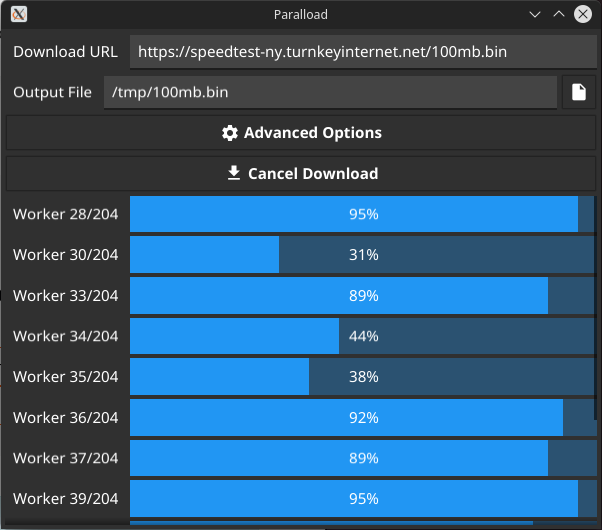
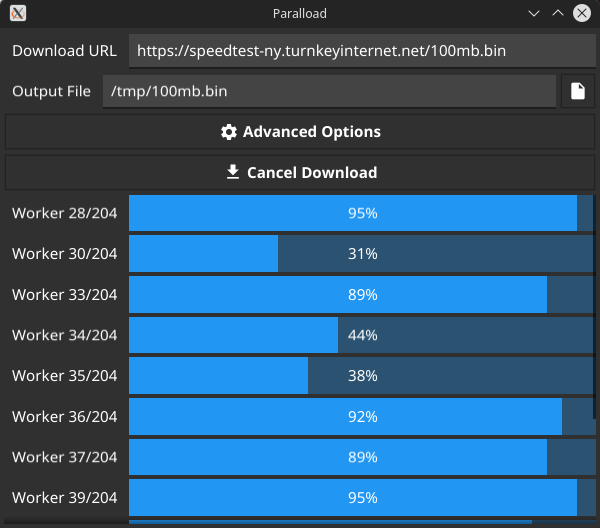
Fix screenshot

diff --git a/README.md b/README.md
@@ -1,6 +1,6 @@
 # Paralload
 A download tool that uses multiple HTTP(S) connections and byte ranges
-![Screenshot](https://raw.githubusercontent.com/ErrorNoInternet/Paralload/main/screenshots/0.png)
+<img src="https://raw.githubusercontent.com/ErrorNoInternet/Paralload/main/screenshots/0.png" style="border-radius: 10%">
 
 ## Compiling
 - Requirements
